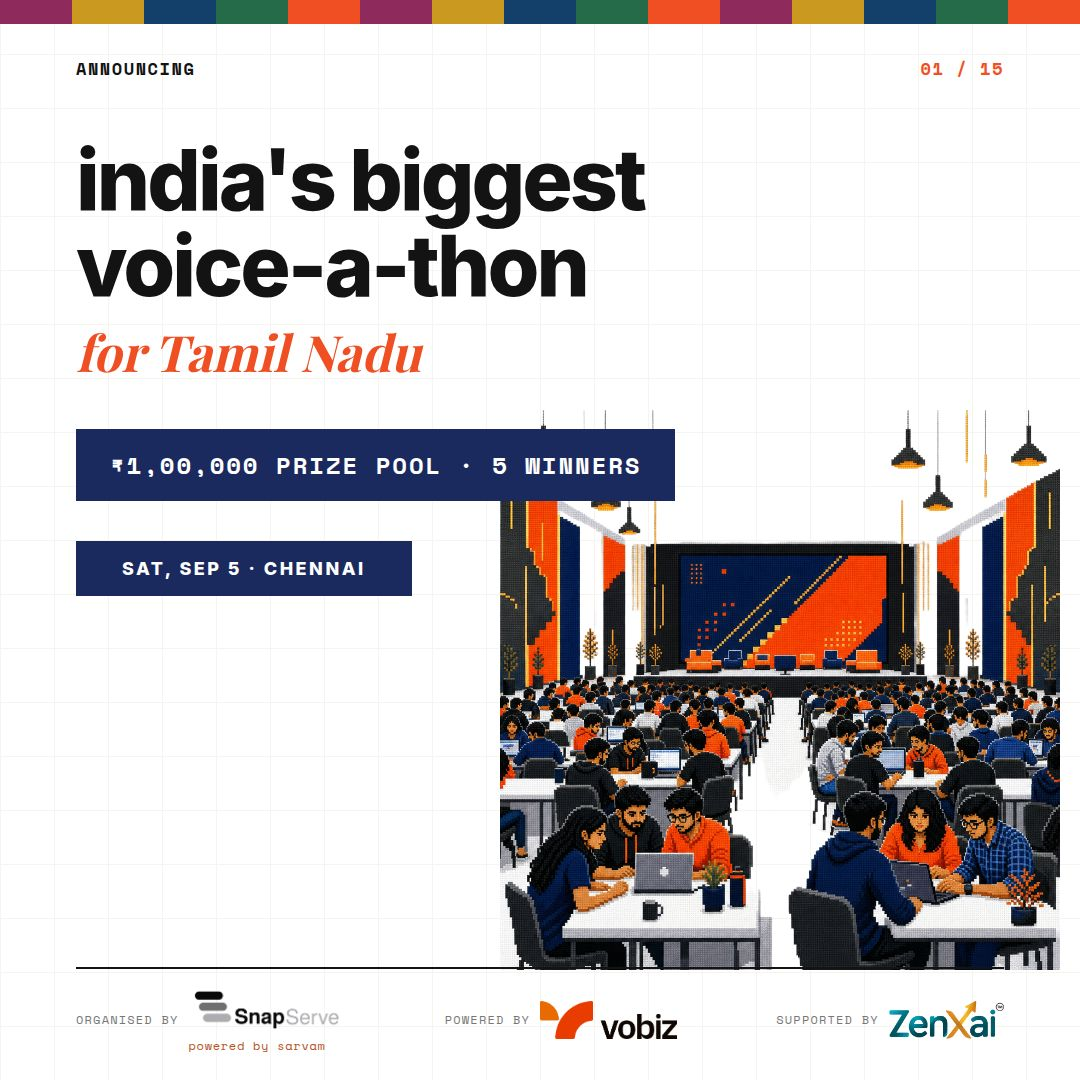
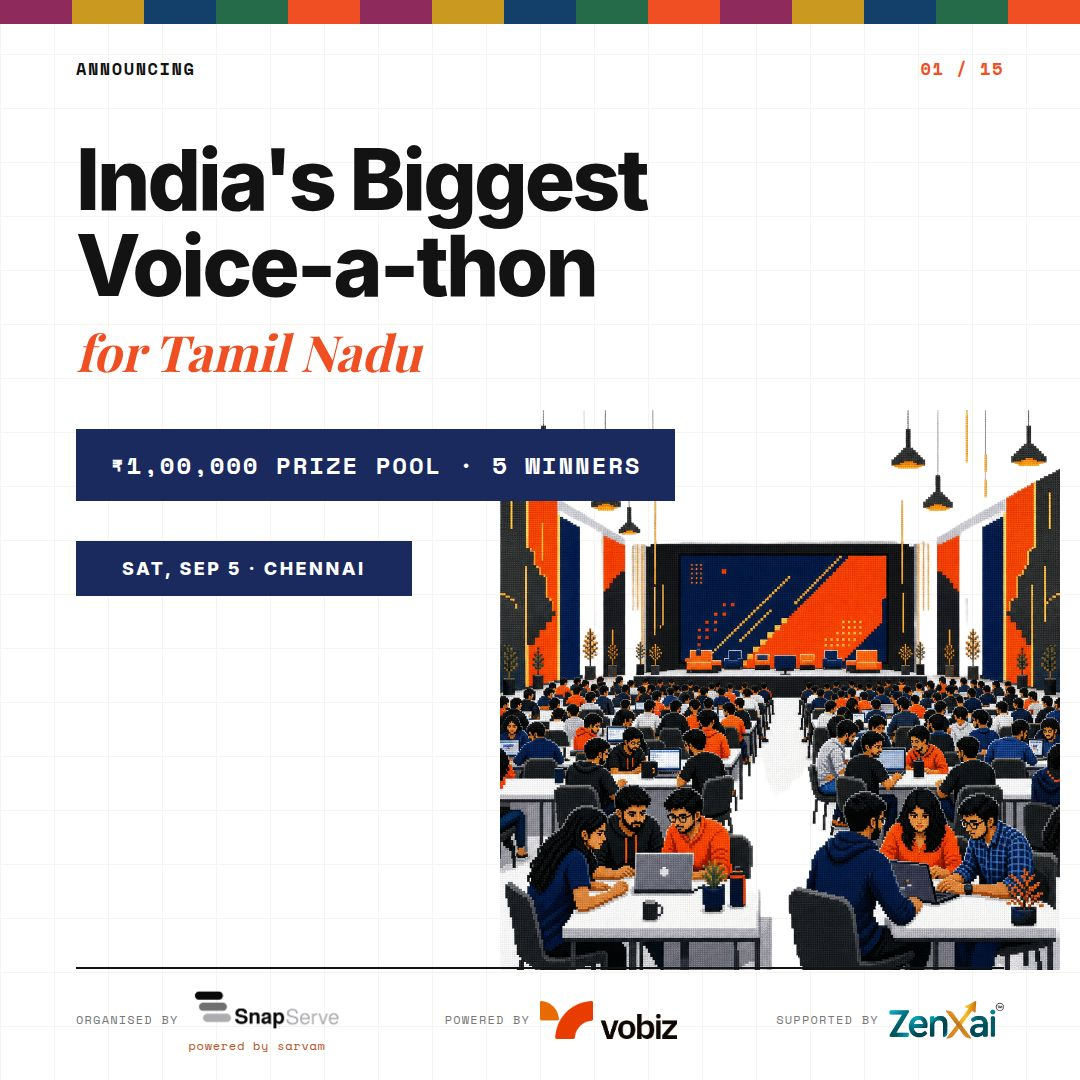
Update agent metadata and regenerate book poster assets.
Replit-Commit-Author: Agent

Changed region(s): [[0.0611, 0.1222, 0.5806, 0.275], [0.0611, 0.1222, 0.0917, 0.1528]]

diff --git a/artifacts/snapserve-book/public/poster/c4.html b/artifacts/snapserve-book/public/poster/c4.html
@@ -31,7 +31,7 @@ body{font-family:'Inter',sans-serif;background:#fff;color:#131313;position:relat
 <div class="bunting"><div style="background:#8E2A5C"></div><div style="background:#C99A1F"></div><div style="background:#12406B"></div><div style="background:#256B4A"></div><div style="background:#F04E23"></div><div style="background:#8E2A5C"></div><div style="background:#C99A1F"></div><div style="background:#12406B"></div><div style="background:#256B4A"></div><div style="background:#F04E23"></div><div style="background:#8E2A5C"></div><div style="background:#C99A1F"></div><div style="background:#12406B"></div><div style="background:#256B4A"></div><div style="background:#F04E23"></div></div>
 <div class="wrap">
   <div class="top"><span>HOW TO JOIN — STEP 3</span><span class="pg">04 / 15</span></div>
-  <div class="l1">deploy on a real<br>phone number</div>
+  <div class="l1">Deploy on a Real<br>Phone Number</div>
   
   
   <div class="body"><div class="li"><span class="dot"></span><span>Get your <b>Vobiz number</b> right from the <b>SnapServe dashboard</b> — no separate setup</span></div><div class="li"><span class="dot"></span><span>Powered by <b>Vobiz — the most advanced AI telephony</b> for your AI agent</span></div><div class="li"><span class="dot"></span><span><b>Mandatory</b> — agents without a phone number are not eligible</span></div></div>

diff --git a/artifacts/snapserve-book/public/poster/c9.html b/artifacts/snapserve-book/public/poster/c9.html
@@ -31,7 +31,7 @@ body{font-family:'Inter',sans-serif;background:#fff;color:#131313;position:relat
 <div class="bunting"><div style="background:#8E2A5C"></div><div style="background:#C99A1F"></div><div style="background:#12406B"></div><div style="background:#256B4A"></div><div style="background:#F04E23"></div><div style="background:#8E2A5C"></div><div style="background:#C99A1F"></div><div style="background:#12406B"></div><div style="background:#256B4A"></div><div style="background:#F04E23"></div><div style="background:#8E2A5C"></div><div style="background:#C99A1F"></div><div style="background:#12406B"></div><div style="background:#256B4A"></div><div style="background:#F04E23"></div></div>
 <div class="wrap">
   <div class="top"><span>HOW YOU'RE JUDGED — 1/2</span><span class="pg">09 / 15</span></div>
-  <div class="l1">solve a real<br>problem</div>
+  <div class="l1">Solve a Real<br>Problem</div>
   
   
   <div class="body"><div class="li"><span class="dot"></span><span><b>Problem clarity & business impact</b> — a real problem, not a feature demo</span></div><div class="li"><span class="dot"></span><span><b>Language accuracy</b> — how well your agent understands & responds in its language</span></div><div class="li"><span class="dot"></span><span>Latency isn't held against you — it's model-dependent</span></div></div>

diff --git a/artifacts/snapserve-book/public/poster/c11.html b/artifacts/snapserve-book/public/poster/c11.html
@@ -31,7 +31,7 @@ body{font-family:'Inter',sans-serif;background:#fff;color:#131313;position:relat
 <div class="bunting"><div style="background:#8E2A5C"></div><div style="background:#C99A1F"></div><div style="background:#12406B"></div><div style="background:#256B4A"></div><div style="background:#F04E23"></div><div style="background:#8E2A5C"></div><div style="background:#C99A1F"></div><div style="background:#12406B"></div><div style="background:#256B4A"></div><div style="background:#F04E23"></div><div style="background:#8E2A5C"></div><div style="background:#C99A1F"></div><div style="background:#12406B"></div><div style="background:#256B4A"></div><div style="background:#F04E23"></div></div>
 <div class="wrap">
   <div class="top"><span>WHAT YOU'LL BUILD ON — 1/3</span><span class="pg">11 / 15</span></div>
-  <div class="l1">the full voice-<br>agent stack</div>
+  <div class="l1">The Full Voice-<br>Agent Stack</div>
   
   
   <div class="body"><div class="li"><span class="dot"></span><span><b>Multilingual voice</b> — Tamil, Hindi, Kannada, Telugu, Hinglish & more, built in</span></div><div class="li"><span class="dot"></span><span><b>Live phone calls</b> — real inbound & outbound calls</span></div><div class="li"><span class="dot"></span><span>Spend your time on the problem, not the plumbing</span></div></div>

diff --git a/artifacts/snapserve-book/public/poster/c6.html b/artifacts/snapserve-book/public/poster/c6.html
@@ -31,7 +31,7 @@ body{font-family:'Inter',sans-serif;background:#fff;color:#131313;position:relat
 <div class="bunting"><div style="background:#8E2A5C"></div><div style="background:#C99A1F"></div><div style="background:#12406B"></div><div style="background:#256B4A"></div><div style="background:#F04E23"></div><div style="background:#8E2A5C"></div><div style="background:#C99A1F"></div><div style="background:#12406B"></div><div style="background:#256B4A"></div><div style="background:#F04E23"></div><div style="background:#8E2A5C"></div><div style="background:#C99A1F"></div><div style="background:#12406B"></div><div style="background:#256B4A"></div><div style="background:#F04E23"></div></div>
 <div class="wrap">
   <div class="top"><span>DEMO DAY — THE FINALE</span><span class="pg">06 / 15</span></div>
-  <div class="l1">2 hours.<br>live on stage.</div>
+  <div class="l1">2 Hours.<br>Live on Stage.</div>
   
   
   <div class="body"><div class="li"><span class="dot"></span><span>A <b>live problem statement</b> is announced on stage</span></div><div class="li"><span class="dot"></span><span>Finalists build, test and present a <b>brand-new agent from scratch</b></span></div><div class="li"><span class="dot"></span><span><b>Top 5 winners</b> + the Participants' Choice Award are crowned</span></div></div>

diff --git a/artifacts/snapserve-book/public/poster/c3.html b/artifacts/snapserve-book/public/poster/c3.html
@@ -31,7 +31,7 @@ body{font-family:'Inter',sans-serif;background:#fff;color:#131313;position:relat
 <div class="bunting"><div style="background:#8E2A5C"></div><div style="background:#C99A1F"></div><div style="background:#12406B"></div><div style="background:#256B4A"></div><div style="background:#F04E23"></div><div style="background:#8E2A5C"></div><div style="background:#C99A1F"></div><div style="background:#12406B"></div><div style="background:#256B4A"></div><div style="background:#F04E23"></div><div style="background:#8E2A5C"></div><div style="background:#C99A1F"></div><div style="background:#12406B"></div><div style="background:#256B4A"></div><div style="background:#F04E23"></div></div>
 <div class="wrap">
   <div class="top"><span>HOW TO JOIN — STEP 2</span><span class="pg">03 / 15</span></div>
-  <div class="l1">sign up on<br>snapserve.ai</div>
+  <div class="l1">Sign Up on<br>snapserve.ai</div>
   
   
   <div class="body"><div class="li"><span class="dot"></span><span>Create your free account at <b>snapserve.ai</b></span></div><div class="li"><span class="dot"></span><span>Get confirmed and receive <b>free SnapServe platform credits</b></span></div><div class="li"><span class="dot"></span><span>Start building immediately — practise, test, iterate before Demo Day</span></div></div>

diff --git a/artifacts/snapserve-book/public/poster/c7.html b/artifacts/snapserve-book/public/poster/c7.html
@@ -31,7 +31,7 @@ body{font-family:'Inter',sans-serif;background:#fff;color:#131313;position:relat
 <div class="bunting"><div style="background:#8E2A5C"></div><div style="background:#C99A1F"></div><div style="background:#12406B"></div><div style="background:#256B4A"></div><div style="background:#F04E23"></div><div style="background:#8E2A5C"></div><div style="background:#C99A1F"></div><div style="background:#12406B"></div><div style="background:#256B4A"></div><div style="background:#F04E23"></div><div style="background:#8E2A5C"></div><div style="background:#C99A1F"></div><div style="background:#12406B"></div><div style="background:#256B4A"></div><div style="background:#F04E23"></div></div>
 <div class="wrap">
   <div class="top"><span>PRIZES</span><span class="pg">07 / 15</span></div>
-  <div class="l1">₹1,00,000<br>prize pool</div>
+  <div class="l1">₹1,00,000<br>Prize Pool</div>
   
   
   <div class="body"><div class="li"><span class="dot"></span><span><b>1st — ₹50,000</b> cash + Trophy + SnapServe & Vobiz credits</span></div><div class="li"><span class="dot"></span><span><b>2nd — ₹30,000</b> cash + Trophy + SnapServe & Vobiz credits</span></div><div class="li"><span class="dot"></span><span><b>3rd — ₹20,000</b> cash + Trophy + SnapServe & Vobiz credits</span></div></div>

diff --git a/artifacts/snapserve-book/public/poster/c15.html b/artifacts/snapserve-book/public/poster/c15.html
@@ -31,7 +31,7 @@ body{font-family:'Inter',sans-serif;background:#fff;color:#131313;position:relat
 <div class="bunting"><div style="background:#8E2A5C"></div><div style="background:#C99A1F"></div><div style="background:#12406B"></div><div style="background:#256B4A"></div><div style="background:#F04E23"></div><div style="background:#8E2A5C"></div><div style="background:#C99A1F"></div><div style="background:#12406B"></div><div style="background:#256B4A"></div><div style="background:#F04E23"></div><div style="background:#8E2A5C"></div><div style="background:#C99A1F"></div><div style="background:#12406B"></div><div style="background:#256B4A"></div><div style="background:#F04E23"></div></div>
 <div class="wrap">
   <div class="top"><span>SEE YOU THERE</span><span class="pg">15 / 15</span></div>
-  <div class="l1">register<br>now</div>
+  <div class="l1">Register<br>Now</div>
   <div class="l2">for Tamil Nadu</div>
   
   <div class="body"><div class="li"><span class="dot"></span><span>Sat, Sep 5 · 9:30 AM – 6:00 PM</span></div><div class="li"><span class="dot"></span><span>Olive Public School, Chitlapakkam, Chennai</span></div><div class="li"><span class="dot"></span><span>Free Entry · Solo or Teams of 2–3 · <b>AI குரல்</b></span></div></div>

diff --git a/artifacts/snapserve-book/public/poster/c5.html b/artifacts/snapserve-book/public/poster/c5.html
@@ -31,7 +31,7 @@ body{font-family:'Inter',sans-serif;background:#fff;color:#131313;position:relat
 <div class="bunting"><div style="background:#8E2A5C"></div><div style="background:#C99A1F"></div><div style="background:#12406B"></div><div style="background:#256B4A"></div><div style="background:#F04E23"></div><div style="background:#8E2A5C"></div><div style="background:#C99A1F"></div><div style="background:#12406B"></div><div style="background:#256B4A"></div><div style="background:#F04E23"></div><div style="background:#8E2A5C"></div><div style="background:#C99A1F"></div><div style="background:#12406B"></div><div style="background:#256B4A"></div><div style="background:#F04E23"></div></div>
 <div class="wrap">
   <div class="top"><span>DEMO DAY — ROUND 1</span><span class="pg">05 / 15</span></div>
-  <div class="l1">judges come<br>to your table</div>
+  <div class="l1">Judges Come<br>to Your Table</div>
   
   
   <div class="body"><div class="li"><span class="dot"></span><span>You demo your agent <b>live via a real phone call</b></span></div><div class="li"><span class="dot"></span><span>Show a real workflow solving a real problem</span></div><div class="li"><span class="dot"></span><span>Then… the <b>Top 20 teams</b> are revealed</span></div></div>

diff --git a/artifacts/snapserve-book/public/poster/c8.html b/artifacts/snapserve-book/public/poster/c8.html
@@ -31,7 +31,7 @@ body{font-family:'Inter',sans-serif;background:#fff;color:#131313;position:relat
 <div class="bunting"><div style="background:#8E2A5C"></div><div style="background:#C99A1F"></div><div style="background:#12406B"></div><div style="background:#256B4A"></div><div style="background:#F04E23"></div><div style="background:#8E2A5C"></div><div style="background:#C99A1F"></div><div style="background:#12406B"></div><div style="background:#256B4A"></div><div style="background:#F04E23"></div><div style="background:#8E2A5C"></div><div style="background:#C99A1F"></div><div style="background:#12406B"></div><div style="background:#256B4A"></div><div style="background:#F04E23"></div></div>
 <div class="wrap">
   <div class="top"><span>PRIZES</span><span class="pg">08 / 15</span></div>
-  <div class="l1">more ways<br>to win</div>
+  <div class="l1">More Ways<br>to Win</div>
   
   
   <div class="body"><div class="li"><span class="dot"></span><span><b>4th & 5th</b> — Trophy + SnapServe credits</span></div><div class="li"><span class="dot"></span><span><b>Participants' Choice Award</b> — voted by the participants themselves</span></div><div class="li"><span class="dot"></span><span>Every confirmed builder gets free platform credits</span></div></div>

diff --git a/artifacts/snapserve-book/public/poster/c12.html b/artifacts/snapserve-book/public/poster/c12.html
@@ -31,7 +31,7 @@ body{font-family:'Inter',sans-serif;background:#fff;color:#131313;position:relat
 <div class="bunting"><div style="background:#8E2A5C"></div><div style="background:#C99A1F"></div><div style="background:#12406B"></div><div style="background:#256B4A"></div><div style="background:#F04E23"></div><div style="background:#8E2A5C"></div><div style="background:#C99A1F"></div><div style="background:#12406B"></div><div style="background:#256B4A"></div><div style="background:#F04E23"></div><div style="background:#8E2A5C"></div><div style="background:#C99A1F"></div><div style="background:#12406B"></div><div style="background:#256B4A"></div><div style="background:#F04E23"></div></div>
 <div class="wrap">
   <div class="top"><span>WHAT YOU'LL BUILD ON — 2/3</span><span class="pg">12 / 15</span></div>
-  <div class="l1">memory, docs &<br>whatsapp</div>
+  <div class="l1">Memory, Docs &<br>WhatsApp</div>
   
   
   <div class="body"><div class="li"><span class="dot"></span><span><b>Memory & knowledge base</b> — your agent remembers callers and answers from your own docs</span></div><div class="li"><span class="dot"></span><span><b>WhatsApp follow-ups</b> — instant post-call messages & callback requests, no Meta setup needed</span></div></div>

diff --git a/artifacts/snapserve-book/public/poster/c10.html b/artifacts/snapserve-book/public/poster/c10.html
@@ -31,7 +31,7 @@ body{font-family:'Inter',sans-serif;background:#fff;color:#131313;position:relat
 <div class="bunting"><div style="background:#8E2A5C"></div><div style="background:#C99A1F"></div><div style="background:#12406B"></div><div style="background:#256B4A"></div><div style="background:#F04E23"></div><div style="background:#8E2A5C"></div><div style="background:#C99A1F"></div><div style="background:#12406B"></div><div style="background:#256B4A"></div><div style="background:#F04E23"></div><div style="background:#8E2A5C"></div><div style="background:#C99A1F"></div><div style="background:#12406B"></div><div style="background:#256B4A"></div><div style="background:#F04E23"></div></div>
 <div class="wrap">
   <div class="top"><span>HOW YOU'RE JUDGED — 2/2</span><span class="pg">10 / 15</span></div>
-  <div class="l1">design the<br>full flow</div>
+  <div class="l1">Design the<br>Full Flow</div>
   
   
   <div class="body"><div class="li"><span class="dot"></span><span><b>Call flow design</b> — clean, logical conversation; bonus for Squad agents on multi-step problems</span></div><div class="li"><span class="dot"></span><span><b>Lead automation</b> — connected to a real lead source (website form or Sheet), end to end</span></div></div>

diff --git a/artifacts/snapserve-book/public/poster/c2.html b/artifacts/snapserve-book/public/poster/c2.html
@@ -31,7 +31,7 @@ body{font-family:'Inter',sans-serif;background:#fff;color:#131313;position:relat
 <div class="bunting"><div style="background:#8E2A5C"></div><div style="background:#C99A1F"></div><div style="background:#12406B"></div><div style="background:#256B4A"></div><div style="background:#F04E23"></div><div style="background:#8E2A5C"></div><div style="background:#C99A1F"></div><div style="background:#12406B"></div><div style="background:#256B4A"></div><div style="background:#F04E23"></div><div style="background:#8E2A5C"></div><div style="background:#C99A1F"></div><div style="background:#12406B"></div><div style="background:#256B4A"></div><div style="background:#F04E23"></div></div>
 <div class="wrap">
   <div class="top"><span>HOW TO JOIN — STEP 1</span><span class="pg">02 / 15</span></div>
-  <div class="l1">register on<br>luma</div>
+  <div class="l1">Register on<br>Luma</div>
   
   
   <div class="body"><div class="li"><span class="dot"></span><span>Find the event link on our page and hit <b>Request to Join</b></span></div><div class="li"><span class="dot"></span><span>Solo, or as a team of <b>2–3 members</b></span></div><div class="li"><span class="dot"></span><span>Registration closes <b>Aug 15, 11:59 PM</b></span></div></div>
